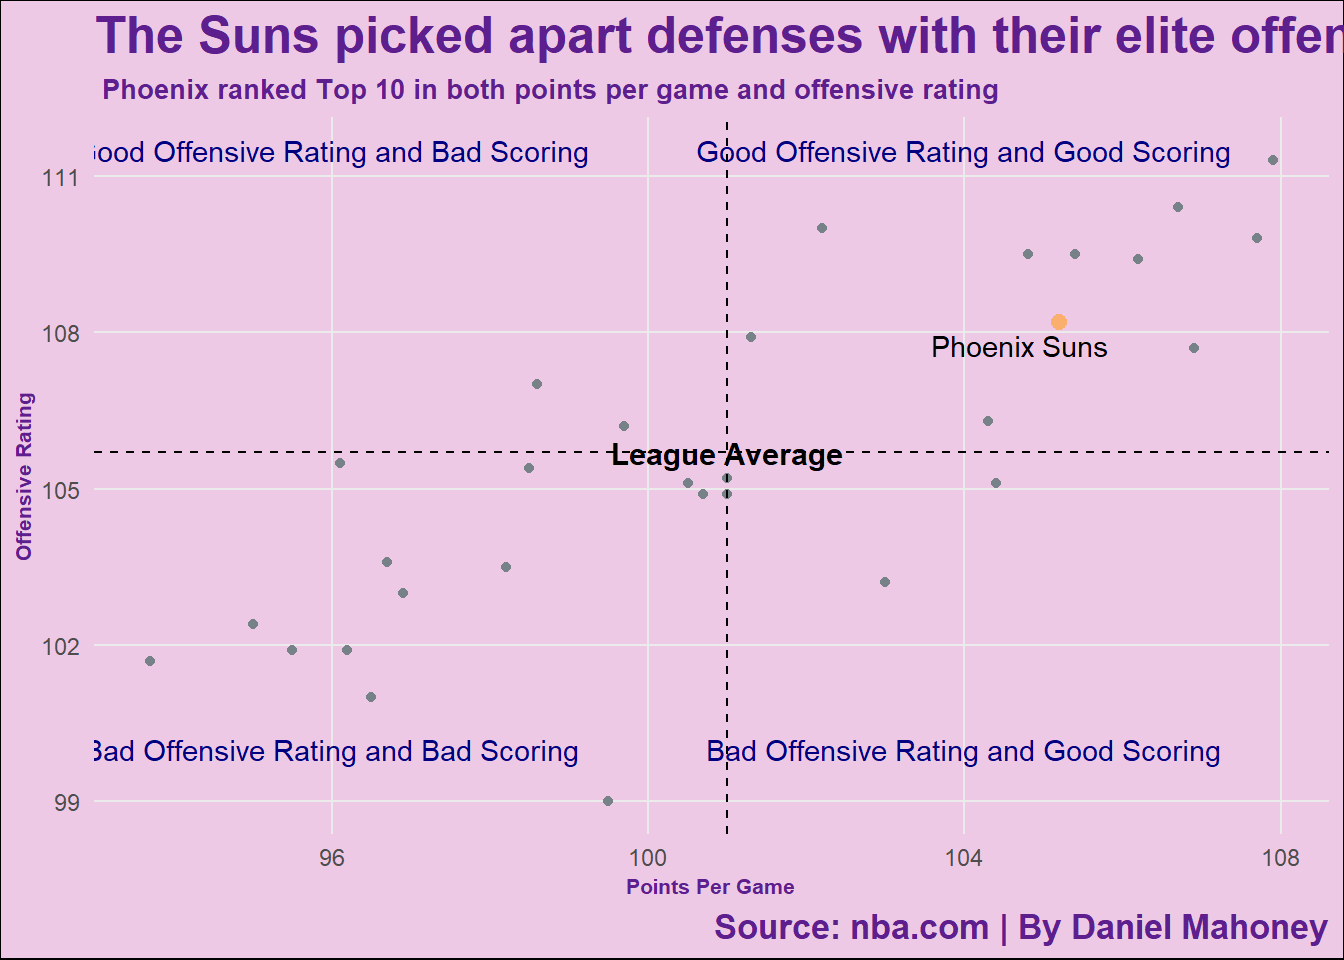
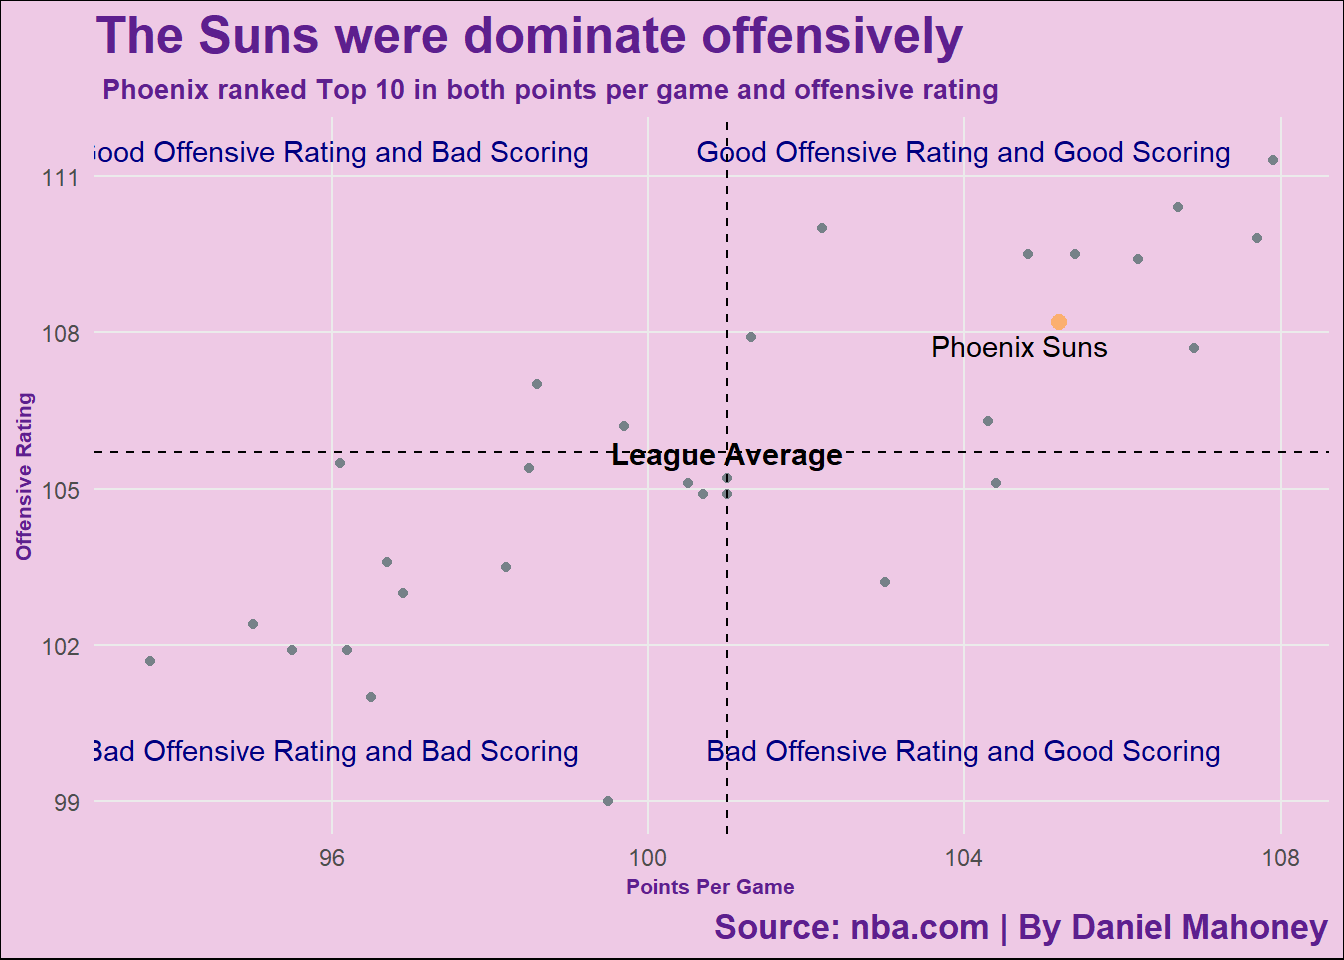
update index.html

Changed region(s): [[0.25, 0.0, 1.0, 0.0625]]

diff --git a/posts/Phoenix-Suns-2013-2014/index.html b/posts/Phoenix-Suns-2013-2014/index.html
@@ -299,23 +299,23 @@ pre > code.sourceCode > span > a:first-child::before { text-decoration: underlin
 <span id="cb5-79"><a href="#cb5-79" aria-hidden="true" tabindex="-1"></a>  )</span></code><button title="Copy to Clipboard" class="code-copy-button"><i class="bi"></i></button></pre></div>
 </details>
 <div class="cell-output-display">
-<div id="tiqmyyzigm" style="padding-left:0px;padding-right:0px;padding-top:10px;padding-bottom:10px;overflow-x:auto;overflow-y:auto;width:auto;height:auto;">
-<style>#tiqmyyzigm table {
+<div id="mjxdymolig" style="padding-left:0px;padding-right:0px;padding-top:10px;padding-bottom:10px;overflow-x:auto;overflow-y:auto;width:auto;height:auto;">
+<style>#mjxdymolig table {
   font-family: system-ui, 'Segoe UI', Roboto, Helvetica, Arial, sans-serif, 'Apple Color Emoji', 'Segoe UI Emoji', 'Segoe UI Symbol', 'Noto Color Emoji';
   -webkit-font-smoothing: antialiased;
   -moz-osx-font-smoothing: grayscale;
 }
 
-#tiqmyyzigm thead, #tiqmyyzigm tbody, #tiqmyyzigm tfoot, #tiqmyyzigm tr, #tiqmyyzigm td, #tiqmyyzigm th {
+#mjxdymolig thead, #mjxdymolig tbody, #mjxdymolig tfoot, #mjxdymolig tr, #mjxdymolig td, #mjxdymolig th {
   border-style: none;
 }
 
-#tiqmyyzigm p {
+#mjxdymolig p {
   margin: 0;
   padding: 0;
 }
 
-#tiqmyyzigm .gt_table {
+#mjxdymolig .gt_table {
   display: table;
   border-collapse: collapse;
   line-height: normal;
@@ -341,12 +341,12 @@ pre > code.sourceCode > span > a:first-child::before { text-decoration: underlin
   border-left-color: #D3D3D3;
 }
 
-#tiqmyyzigm .gt_caption {
+#mjxdymolig .gt_caption {
   padding-top: 4px;
   padding-bottom: 4px;
 }
 
-#tiqmyyzigm .gt_title {
+#mjxdymolig .gt_title {
   color: #333333;
   font-size: 125%;
   font-weight: initial;
@@ -358,7 +358,7 @@ pre > code.sourceCode > span > a:first-child::before { text-decoration: underlin
   border-bottom-width: 0;
 }
 
-#tiqmyyzigm .gt_subtitle {
+#mjxdymolig .gt_subtitle {
   color: #333333;
   font-size: 85%;
   font-weight: initial;
@@ -370,7 +370,7 @@ pre > code.sourceCode > span > a:first-child::before { text-decoration: underlin
   border-top-width: 0;
 }
 
-#tiqmyyzigm .gt_heading {
+#mjxdymolig .gt_heading {
   background-color: #FFFFFF;
   text-align: center;
   border-bottom-color: #FFFFFF;
@@ -382,13 +382,13 @@ pre > code.sourceCode > span > a:first-child::before { text-decoration: underlin
   border-right-color: #D3D3D3;
 }
 
-#tiqmyyzigm .gt_bottom_border {
+#mjxdymolig .gt_bottom_border {
   border-bottom-style: none;
   border-bottom-width: 2px;
   border-bottom-color: #D3D3D3;
 }
 
-#tiqmyyzigm .gt_col_headings {
+#mjxdymolig .gt_col_headings {
   border-top-style: none;
   border-top-width: 2px;
   border-top-color: #D3D3D3;
@@ -403,7 +403,7 @@ pre > code.sourceCode > span > a:first-child::before { text-decoration: underlin
   border-right-color: #D3D3D3;
 }
 
-#tiqmyyzigm .gt_col_heading {
+#mjxdymolig .gt_col_heading {
   color: #333333;
   background-color: #FFFFFF;
   font-size: 100%;
@@ -423,7 +423,7 @@ pre > code.sourceCode > span > a:first-child::before { text-decoration: underlin
   overflow-x: hidden;
 }
 
-#tiqmyyzigm .gt_column_spanner_outer {
+#mjxdymolig .gt_column_spanner_outer {
   color: #333333;
   background-color: #FFFFFF;
   font-size: 100%;
@@ -435,15 +435,15 @@ pre > code.sourceCode > span > a:first-child::before { text-decoration: underlin
   padding-right: 4px;
 }
 
-#tiqmyyzigm .gt_column_spanner_outer:first-child {
+#mjxdymolig .gt_column_spanner_outer:first-child {
   padding-left: 0;
 }
 
-#tiqmyyzigm .gt_column_spanner_outer:last-child {
+#mjxdymolig .gt_column_spanner_outer:last-child {
   padding-right: 0;
 }
 
-#tiqmyyzigm .gt_column_spanner {
+#mjxdymolig .gt_column_spanner {
   border-bottom-style: none;
   border-bottom-width: 2px;
   border-bottom-color: #D3D3D3;
@@ -455,11 +455,11 @@ pre > code.sourceCode > span > a:first-child::before { text-decoration: underlin
   width: 100%;
 }
 
-#tiqmyyzigm .gt_spanner_row {
+#mjxdymolig .gt_spanner_row {
   border-bottom-style: hidden;
 }
 
-#tiqmyyzigm .gt_group_heading {
+#mjxdymolig .gt_group_heading {
   padding-top: 8px;
   padding-bottom: 8px;
   padding-left: 5px;
@@ -485,7 +485,7 @@ pre > code.sourceCode > span > a:first-child::before { text-decoration: underlin
   text-align: left;
 }
 
-#tiqmyyzigm .gt_empty_group_heading {
+#mjxdymolig .gt_empty_group_heading {
   padding: 0.5px;
   color: #333333;
   background-color: #FFFFFF;
@@ -500,15 +500,15 @@ pre > code.sourceCode > span > a:first-child::before { text-decoration: underlin
   vertical-align: middle;
 }
 
-#tiqmyyzigm .gt_from_md > :first-child {
+#mjxdymolig .gt_from_md > :first-child {
   margin-top: 0;
 }
 
-#tiqmyyzigm .gt_from_md > :last-child {
+#mjxdymolig .gt_from_md > :last-child {
   margin-bottom: 0;
 }
 
-#tiqmyyzigm .gt_row {
+#mjxdymolig .gt_row {
   padding-top: 8px;
   padding-bottom: 8px;
   padding-left: 5px;
@@ -527,7 +527,7 @@ pre > code.sourceCode > span > a:first-child::before { text-decoration: underlin
   overflow-x: hidden;
 }
 
-#tiqmyyzigm .gt_stub {
+#mjxdymolig .gt_stub {
   color: #333333;
   background-color: #FFFFFF;
   font-size: 100%;
@@ -540,7 +540,7 @@ pre > code.sourceCode > span > a:first-child::before { text-decoration: underlin
   padding-right: 5px;
 }
 
-#tiqmyyzigm .gt_stub_row_group {
+#mjxdymolig .gt_stub_row_group {
   color: #333333;
   background-color: #FFFFFF;
   font-size: 100%;
@@ -554,15 +554,15 @@ pre > code.sourceCode > span > a:first-child::before { text-decoration: underlin
   vertical-align: top;
 }
 
-#tiqmyyzigm .gt_row_group_first td {
+#mjxdymolig .gt_row_group_first td {
   border-top-width: 2px;
 }
 
-#tiqmyyzigm .gt_row_group_first th {
+#mjxdymolig .gt_row_group_first th {
   border-top-width: 2px;
 }
 
-#tiqmyyzigm .gt_summary_row {
+#mjxdymolig .gt_summary_row {
   color: #333333;
   background-color: #FFFFFF;
   text-transform: inherit;
@@ -572,16 +572,16 @@ pre > code.sourceCode > span > a:first-child::before { text-decoration: underlin
   padding-right: 5px;
 }
 
-#tiqmyyzigm .gt_first_summary_row {
+#mjxdymolig .gt_first_summary_row {
   border-top-style: none;
   border-top-color: #D3D3D3;
 }
 
-#tiqmyyzigm .gt_first_summary_row.thick {
+#mjxdymolig .gt_first_summary_row.thick {
   border-top-width: 2px;
 }
 
-#tiqmyyzigm .gt_last_summary_row {
+#mjxdymolig .gt_last_summary_row {
   padding-top: 8px;
   padding-bottom: 8px;
   padding-left: 5px;
@@ -591,7 +591,7 @@ pre > code.sourceCode > span > a:first-child::before { text-decoration: underlin
   border-bottom-color: #D3D3D3;
 }
 
-#tiqmyyzigm .gt_grand_summary_row {
+#mjxdymolig .gt_grand_summary_row {
   color: #333333;
   background-color: #FFFFFF;
   text-transform: inherit;
@@ -601,7 +601,7 @@ pre > code.sourceCode > span > a:first-child::before { text-decoration: underlin
   padding-right: 5px;
 }
 
-#tiqmyyzigm .gt_first_grand_summary_row {
+#mjxdymolig .gt_first_grand_summary_row {
   padding-top: 8px;
   padding-bottom: 8px;
   padding-left: 5px;
@@ -611,7 +611,7 @@ pre > code.sourceCode > span > a:first-child::before { text-decoration: underlin
   border-top-color: #D3D3D3;
 }
 
-#tiqmyyzigm .gt_last_grand_summary_row_top {
+#mjxdymolig .gt_last_grand_summary_row_top {
   padding-top: 8px;
   padding-bottom: 8px;
   padding-left: 5px;
@@ -621,11 +621,11 @@ pre > code.sourceCode > span > a:first-child::before { text-decoration: underlin
   border-bottom-color: #D3D3D3;
 }
 
-#tiqmyyzigm .gt_striped {
+#mjxdymolig .gt_striped {
   background-color: rgba(128, 128, 128, 0.05);
 }
 
-#tiqmyyzigm .gt_table_body {
+#mjxdymolig .gt_table_body {
   border-top-style: none;
   border-top-width: 2px;
   border-top-color: #D3D3D3;
@@ -634,7 +634,7 @@ pre > code.sourceCode > span > a:first-child::before { text-decoration: underlin
   border-bottom-color: #D3D3D3;
 }
 
-#tiqmyyzigm .gt_footnotes {
+#mjxdymolig .gt_footnotes {
   color: #333333;
   background-color: #FFFFFF;
   border-bottom-style: none;
@@ -648,7 +648,7 @@ pre > code.sourceCode > span > a:first-child::before { text-decoration: underlin
   border-right-color: #D3D3D3;
 }
 
-#tiqmyyzigm .gt_footnote {
+#mjxdymolig .gt_footnote {
   margin: 0px;
   font-size: 90%;
   padding-top: 4px;
@@ -657,7 +657,7 @@ pre > code.sourceCode > span > a:first-child::before { text-decoration: underlin
   padding-right: 5px;
 }
 
-#tiqmyyzigm .gt_sourcenotes {
+#mjxdymolig .gt_sourcenotes {
   color: #333333;
   background-color: #FFFFFF;
   border-bottom-style: none;
@@ -671,7 +671,7 @@ pre > code.sourceCode > span > a:first-child::before { text-decoration: underlin
   border-right-color: #D3D3D3;
 }
 
-#tiqmyyzigm .gt_sourcenote {
+#mjxdymolig .gt_sourcenote {
   font-size: 90%;
   padding-top: 4px;
   padding-bottom: 4px;
@@ -679,72 +679,72 @@ pre > code.sourceCode > span > a:first-child::before { text-decoration: underlin
   padding-right: 5px;
 }
 
-#tiqmyyzigm .gt_left {
+#mjxdymolig .gt_left {
   text-align: left;
 }
 
-#tiqmyyzigm .gt_center {
+#mjxdymolig .gt_center {
   text-align: center;
 }
 
-#tiqmyyzigm .gt_right {
+#mjxdymolig .gt_right {
   text-align: right;
   font-variant-numeric: tabular-nums;
 }
 
-#tiqmyyzigm .gt_font_normal {
+#mjxdymolig .gt_font_normal {
   font-weight: normal;
 }
 
-#tiqmyyzigm .gt_font_bold {
+#mjxdymolig .gt_font_bold {
   font-weight: bold;
 }
 
-#tiqmyyzigm .gt_font_italic {
+#mjxdymolig .gt_font_italic {
   font-style: italic;
 }
 
-#tiqmyyzigm .gt_super {
+#mjxdymolig .gt_super {
   font-size: 65%;
 }
 
-#tiqmyyzigm .gt_footnote_marks {
+#mjxdymolig .gt_footnote_marks {
   font-size: 75%;
   vertical-align: 0.4em;
   position: initial;
 }
 
-#tiqmyyzigm .gt_asterisk {
+#mjxdymolig .gt_asterisk {
   font-size: 100%;
   vertical-align: 0;
 }
 
-#tiqmyyzigm .gt_indent_1 {
+#mjxdymolig .gt_indent_1 {
   text-indent: 5px;
 }
 
-#tiqmyyzigm .gt_indent_2 {
+#mjxdymolig .gt_indent_2 {
   text-indent: 10px;
 }
 
-#tiqmyyzigm .gt_indent_3 {
+#mjxdymolig .gt_indent_3 {
   text-indent: 15px;
 }
 
-#tiqmyyzigm .gt_indent_4 {
+#mjxdymolig .gt_indent_4 {
   text-indent: 20px;
 }
 
-#tiqmyyzigm .gt_indent_5 {
+#mjxdymolig .gt_indent_5 {
   text-indent: 25px;
 }
 
-#tiqmyyzigm .katex-display {
+#mjxdymolig .katex-display {
   display: inline-flex !important;
   margin-bottom: 0.75em !important;
 }
 
-#tiqmyyzigm div.Reactable > div.rt-table > div.rt-thead > div.rt-tr.rt-tr-group-header > div.rt-th-group:after {
+#mjxdymolig div.Reactable > div.rt-table > div.rt-thead > div.rt-tr.rt-tr-group-header > div.rt-th-group:after {
   height: 0px !important;
 }
 </style>
@@ -928,7 +928,7 @@ The Suns’ success was driven by their elite offense, ranking in the Top 10 in 
 <span id="cb6-48"><a href="#cb6-48" aria-hidden="true" tabindex="-1"></a>  <span class="fu">labs</span>(</span>
 <span id="cb6-49"><a href="#cb6-49" aria-hidden="true" tabindex="-1"></a>    <span class="at">x =</span> <span class="st">"Points Per Game"</span>,</span>
 <span id="cb6-50"><a href="#cb6-50" aria-hidden="true" tabindex="-1"></a>    <span class="at">y =</span> <span class="st">"Offensive Rating"</span>, </span>
-<span id="cb6-51"><a href="#cb6-51" aria-hidden="true" tabindex="-1"></a>    <span class="at">title =</span> <span class="st">"The Suns picked apart defenses with their elite offense"</span>,</span>
+<span id="cb6-51"><a href="#cb6-51" aria-hidden="true" tabindex="-1"></a>    <span class="at">title =</span> <span class="st">"The Suns were dominate offensively"</span>,</span>
 <span id="cb6-52"><a href="#cb6-52" aria-hidden="true" tabindex="-1"></a>    <span class="at">subtitle =</span> <span class="st">" Phoenix ranked Top 10 in both points per game and offensive rating"</span>,</span>
 <span id="cb6-53"><a href="#cb6-53" aria-hidden="true" tabindex="-1"></a>    <span class="at">caption =</span> <span class="st">"Source: nba.com | By Daniel Mahoney"</span></span>
 <span id="cb6-54"><a href="#cb6-54" aria-hidden="true" tabindex="-1"></a>  ) <span class="sc">+</span></span>

diff --git a/index.html b/index.html
@@ -205,7 +205,7 @@ window.Quarto = {
 
 <div class="quarto-listing quarto-listing-container-default" id="listing-listing">
 <div class="list quarto-listing-default">
-<div class="quarto-post image-right" data-index="0" data-categories="YmFza2V0YmFsbCxuYmEscGhvZW5peCxzdW5z" data-listing-date-sort="1730786400000" data-listing-file-modified-sort="1731640184566" data-listing-date-modified-sort="NaN" data-listing-reading-time-sort="15" data-listing-word-count-sort="2983">
+<div class="quarto-post image-right" data-index="0" data-categories="YmFza2V0YmFsbCxuYmEscGhvZW5peCxzdW5z" data-listing-date-sort="1730786400000" data-listing-file-modified-sort="1731640545043" data-listing-date-modified-sort="NaN" data-listing-reading-time-sort="15" data-listing-word-count-sort="2979">
 <div class="thumbnail">
 <p><a href="./posts/Phoenix-Suns-2013-2014/index.html" class="no-external"></a></p><a href="./posts/Phoenix-Suns-2013-2014/index.html" class="no-external">
 <p><img loading="lazy" src="./posts/Phoenix-Suns-2013-2014/image.png" class="thumbnail-image"></p>
